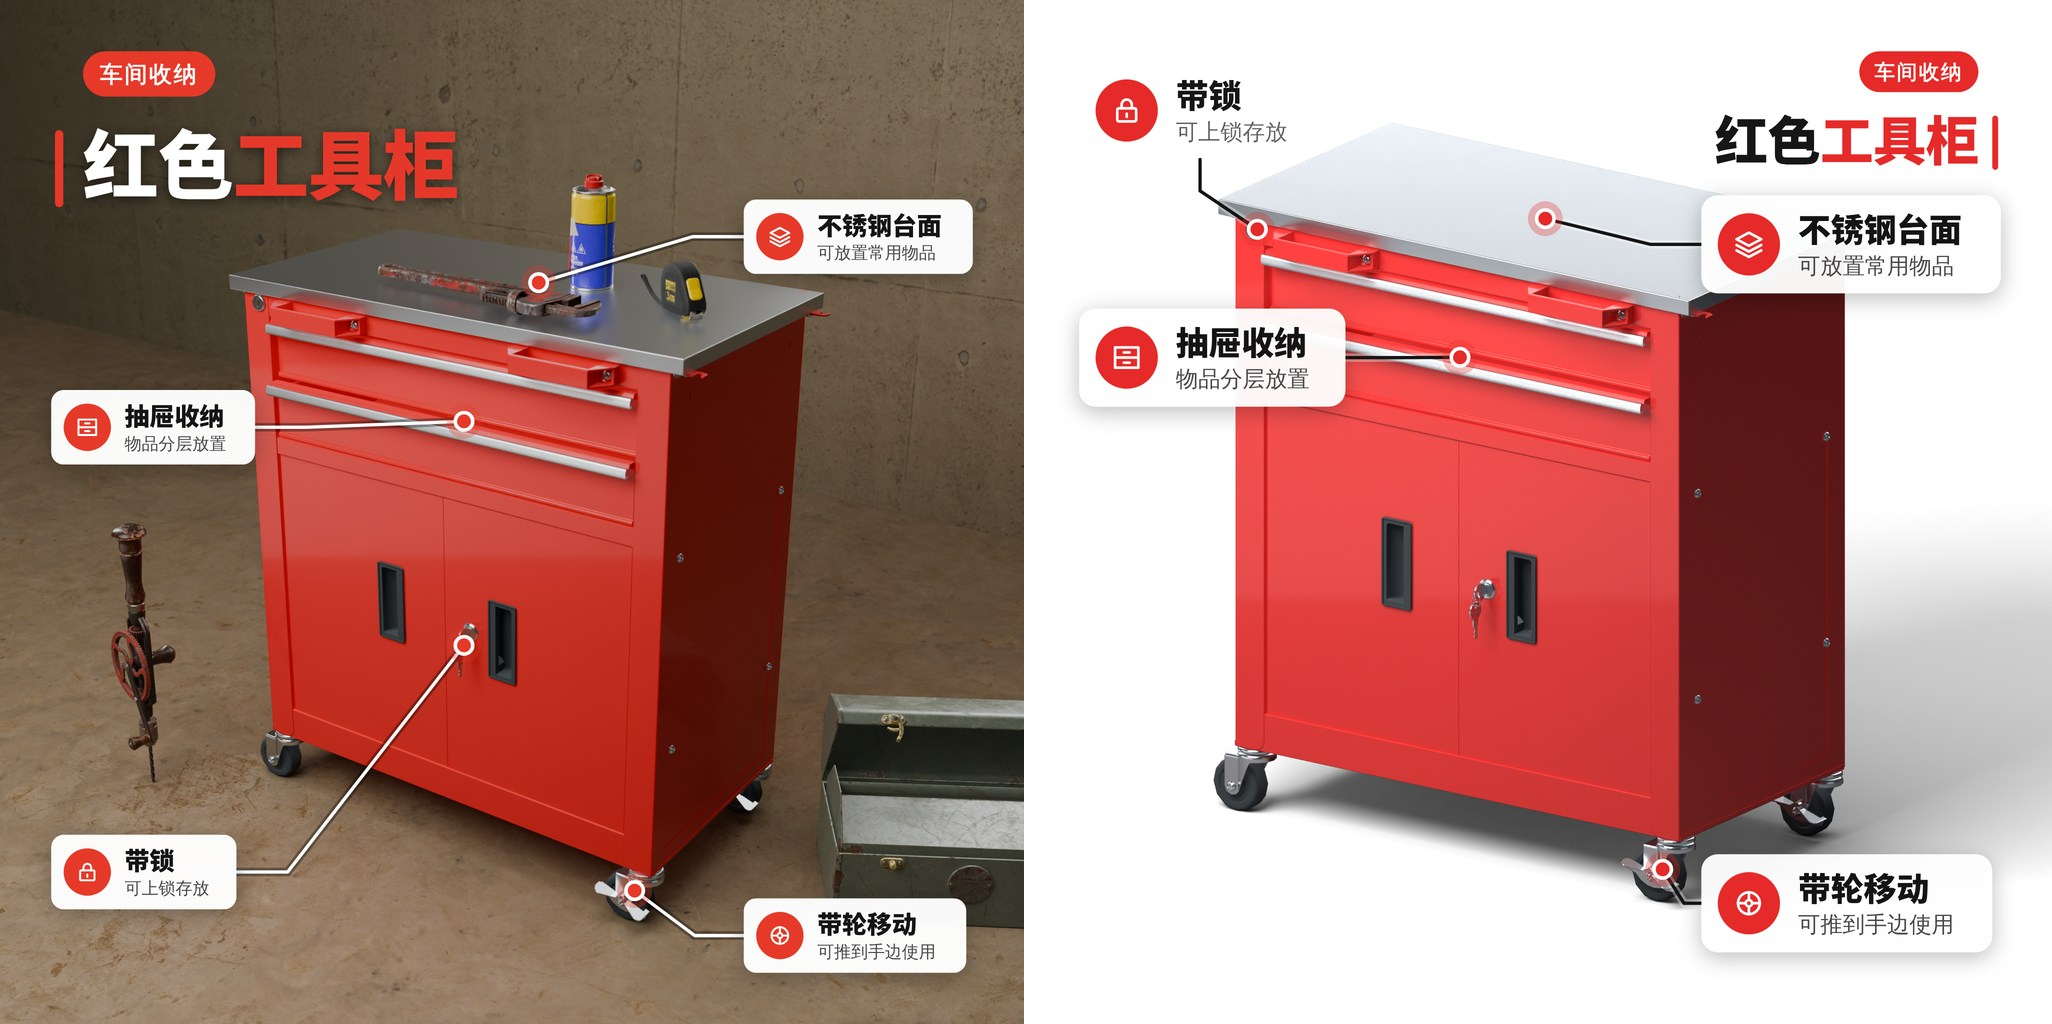
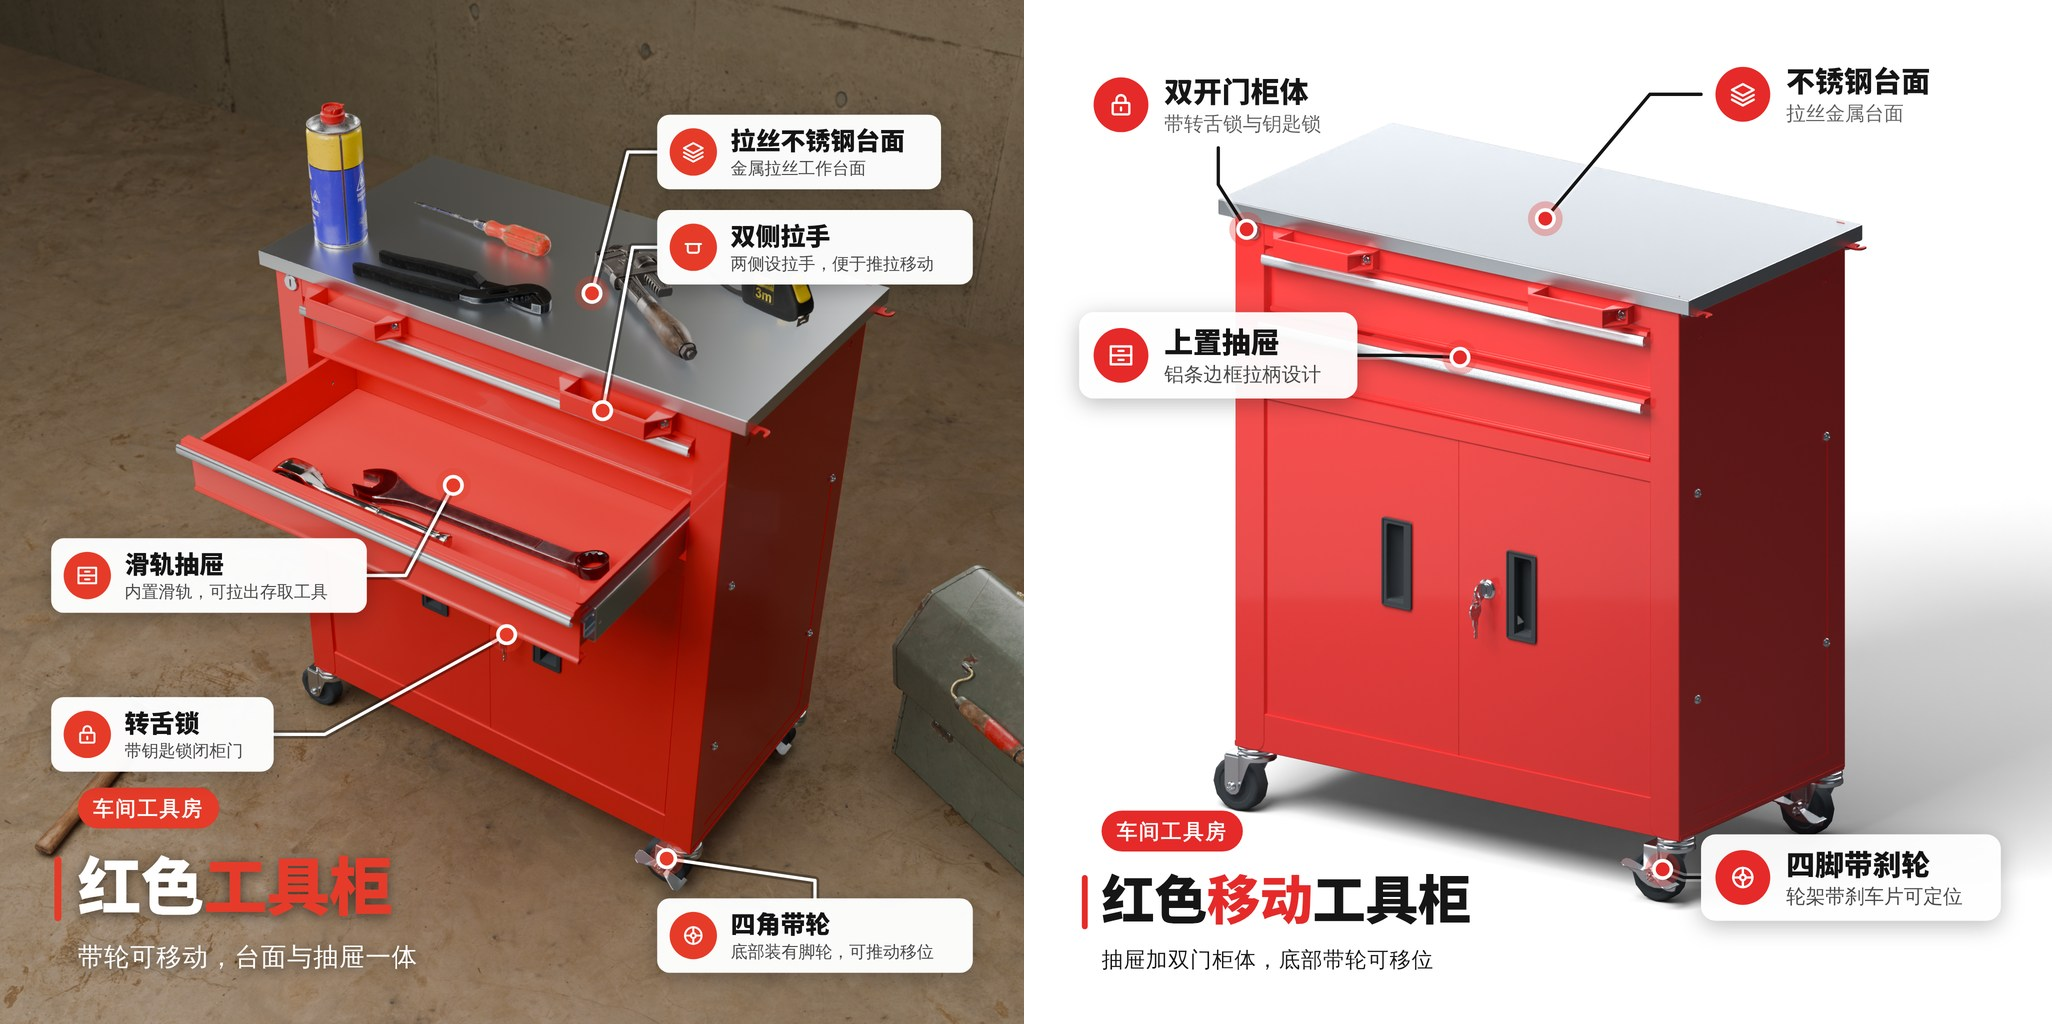
Verify the layer's key points on the real model and tighten what it may say
With the account topped up, the v24 key-point prompt ran against the HAI
service in three rounds on the cabinet's main image and scene. Requests and
replies passed validation from the first call: a category tag, a headline
with an emphasised word, and four to five points that all point at visible
parts, in about 12 seconds per image.

Reading the real replies led to these changes:

- Smoothness, ease and roominess join the banned praise; the first round
  still wrote "顺滑", "顺畅" and "宽敞".
- The tag may not repeat the headline's words.
- The model is given what each icon stands for, after it picked a ruler for a
  worktop.
- The headline block now leaves out its supporting line before it may touch
  the product, and the report says so.

The layer tests no longer depend on the machine's own AI settings: with AI
enabled locally some of them had reached the real service. The documentation
image now shows the model-written layers.

Claude-Session: https://claude.ai/code/session_01LRdb81dzUKKZMGLAkvRvuB

diff --git a/info_layer.py b/info_layer.py
@@ -46,6 +46,7 @@ MAX_ITEMS = 40
 MAX_HINT = 400
 MARGIN = .05
 DARK, LIGHT = '#141414', '#ffffff'
+TOUCH = .005             # a headline block with more than this share of it on the product counts as touching it
 BASIS_KEYS = ('azimuth', 'elevation', 'focal_length', 'projection', 'ortho_scale', 'camera_distance', 'target_offset')
 
 
@@ -215,16 +216,25 @@ CUES = (
     (('瓶身', '机身', '壳体', '外壳', 'body', 'shell', 'housing'), '', '', 'check'),
     (('柜体', '箱体', '框架', 'frame', 'cabinet'), '', '', 'box'),
 )
+# What each icon stands for, so a model picks by meaning and not by the look of a name.
+ICON_MEANINGS = {
+    'check': 'a general point', 'star': 'a highlight', 'shield': 'protection, cover', 'lock': 'lock, key', 'drawer': 'drawer, storage', 'wheel': 'wheel, caster',
+    'layers': 'surface, material, worktop, layers', 'ruler': 'size, dimensions', 'drop': 'liquid, pump', 'leaf': 'natural, plant', 'bolt': 'electric power',
+    'sparkle': 'finish, shine', 'heart': 'care', 'handle': 'handle, grip', 'door': 'door', 'box': 'body, case, packaging', 'truck': 'delivery, transport',
+    'clock': 'time', 'weight': 'weight, load', 'tool': 'tools, repair', 'sun': 'light, outdoor', 'wave': 'water', 'flame': 'heat', 'bulb': 'lamp',
+    'screen': 'display', 'power': 'switch, button', 'bag': 'bag, carrying', 'eye': 'window, visibility', 'award': 'award', 'tag': 'label, brand',
+    'info': 'information', 'size': 'space, expansion', 'gear': 'mechanism, adjustment', 'dot': 'a small part', 'arrow': 'direction, movement', 'plus': 'an extra',
+    'home': 'home use', 'cup': 'drink, kitchen'}
 MATERIAL_WORDS = ((('不锈钢', 'stainless'), '不锈钢'), (('玻璃', 'glass'), '玻璃'), (('实木', '木', 'wood', 'oak'), '木质'),
                   (('真皮', '皮革', 'leather'), '皮革'), (('铝', 'alumin'), '铝制'), (('帆布', 'canvas'), '帆布'))
 COPY_PROMPT = '''You write the short key points that are placed on a product photo for an online shop. You are shown the photo and facts about the product.
 Return data only:
-- kicker: a tag of 2 to 6 Chinese characters (at most 14 Latin) naming the category or where the product is used, shown in a small pill above the headline; or an empty string.
+- kicker: a tag of 2 to 6 Chinese characters (at most 14 Latin) naming the category or where the product is used, shown in a small pill above the headline; it must add something and not repeat the headline's own words; or an empty string.
 - headline: the product in a few words, in the user's language (at most 12 characters for Chinese, 26 for Latin text). It is set large: keep it short and concrete.
 - emphasis: the one word or phrase inside headline to draw in the accent colour, copied exactly from headline; or an empty string.
 - subline: one short supporting line, or an empty string.
-- points: 3 to 5 key points a shopper should notice. title is at most 7 Chinese characters (14 Latin), detail at most 12 Chinese characters (26 Latin) or empty. icon is the closest of the available icons. parts lists the visible_parts names that this point is about, copied exactly, so a line can point at them; leave it empty when the point is about the whole product.
-Say only what the photo shows or the facts state: what a part is and what it is for. Do not praise it. Never give a number, size, weight, capacity, grade, certification or warranty unless it appears in the facts; never claim durability, strength, safety, quietness, comfort or quality (耐磨, 防锈, 稳固, 安全, 结实, 静音, 高品质 and the like) unless the facts state it; never compare with other products. Prefer points about parts that are clearly visible in this photo, and spread them over different parts of the product. hint, when present, is what the user wants said and takes priority; keep the user's own wording and figures for it.'''
+- points: 3 to 5 key points a shopper should notice. title is at most 7 Chinese characters (14 Latin), detail at most 12 Chinese characters (26 Latin) or empty. icon is the name from available_icons whose meaning fits the point best. parts lists the visible_parts names that this point is about, copied exactly, so a line can point at them; leave it empty when the point is about the whole product.
+Say only what the photo shows or the facts state: what a part is and what it is for. Do not praise it. Never give a number, size, weight, capacity, grade, certification or warranty unless it appears in the facts; never claim durability, strength, safety, quietness, smoothness, ease, roominess, comfort or quality (耐磨, 防锈, 稳固, 安全, 结实, 静音, 顺滑, 顺畅, 轻松, 宽敞, 高品质 and the like) unless the facts state it; never compare with other products. Prefer points about parts that are clearly visible in this photo, and spread them over different parts of the product. hint, when present, is what the user wants said and takes priority; keep the user's own wording and figures for it.'''
 
 
 def copy_schema():
@@ -337,7 +347,7 @@ def copy_for(project, hint='', image_path=None, visible=None):
     shown = list(visible if visible is not None else _names(project))[:80]
     facts = {'product_name': str(project.get('name', ''))[:200], 'product_category': str(metadata.get('product_category', ''))[:200],
              'material_note': str(metadata.get('material_note', ''))[:500], 'real_dimensions_mm': project['plan'].get('dimensions_mm'),
-             'visible_parts': shown, 'available_icons': list(ICONS),
+             'visible_parts': shown, 'available_icons': dict(ICON_MEANINGS),
              'surface_finishes': [{'part': str(row.get('object') or row.get('material', ''))[:80], 'finish': str(row.get('label', ''))[:40]}
                                   for row in lookdev[:30] if isinstance(row, dict)]}
     if hint:
@@ -603,11 +613,13 @@ def arrange(copy_data, picture, aspect='1:1', look=None):
     product = picture.rect or (.3, .3, .7, .7)
 
     # --- tag, headline and subline: one block, set large, in the freest corner or band
-    best = None
     kicker = copy_data.get('kicker') or ''; headline = copy_data.get('headline') or ''; subline = copy_data.get('subline') or ''
-    if headline:
-        places = (('left', 'top', 0), ('right', 'top', .03), ('center', 'top', .05), ('left', 'bottom', .09), ('right', 'bottom', .11),
-                  ('center', 'bottom', .13))
+    places = (('left', 'top', 0), ('right', 'top', .03), ('center', 'top', .05), ('left', 'bottom', .09), ('right', 'bottom', .11),
+              ('center', 'bottom', .13))
+
+    def block(subline):
+        """The best place and size for the block with this subline: (score, share on the product, ...measures)."""
+        found = None
         for step, size in enumerate((.1, .086, .074, .062, .052)):
             for limit in (.6, .46, .36):
                 lines = wrap(headline, size, limit / sx)
@@ -629,12 +641,21 @@ def arrange(copy_data, picture, aspect='1:1', look=None):
                     rect = (x0, y0, x0 + block_w, y0 + block_h)
                     on_product, on_scenery = picture.cover(rect)
                     # Large type is wanted, but not across the product: a headline that touches it at all pays for that first.
-                    score = (-(7 * on_product + 2.5 * on_scenery) - (.3 if on_product > .02 else 0) - picture.tone(rect)[1] * .8 - bias - step * .055
+                    score = (-(7 * on_product + 2.5 * on_scenery) - (.3 if on_product > TOUCH else 0) - picture.tone(rect)[1] * .8 - bias - step * .055
                              - (len(lines) - 1) * .02)
-                    if best is None or score > best[0]:
-                        best = (score, rect, align, size, sub_size, kick_size, lines, sub_lines, kick_h + kick_gap, head_h, gap)
+                    if found is None or score > found[0]:
+                        found = (score, on_product, rect, align, size, sub_size, kick_size, lines, sub_lines, kick_h + kick_gap, head_h, gap)
+        return found
+
+    best = block(subline) if headline else None
+    unplaced = []
+    if best and subline and best[1] > TOUCH:
+        # The supporting line is the first thing to go when the block would otherwise lie on the product.
+        shorter = block('')
+        if shorter and shorter[1] <= TOUCH:
+            best = shorter; unplaced.append(subline)
     if best:
-        _, rect, align, size, sub_size, kick_size, lines, sub_lines, head_y, head_h, gap = best
+        _, _, rect, align, size, sub_size, kick_size, lines, sub_lines, head_y, head_h, gap = best
         color, backing = _tone(picture, rect)
         plate = ({'color': '#ffffff', 'opacity': .92} if color == DARK else {'color': '#111111', 'opacity': .6}) if backing and picture.cover(rect)[0] > .25 else None
         common = {'type': 'text', 'x': rect[0], 'w': rect[2] - rect[0], 'align': align, 'color': color}
@@ -763,7 +784,7 @@ def arrange(copy_data, picture, aspect='1:1', look=None):
         items.append({'id': label['id'], 'type': 'callout', 'x': rect[0], 'y': rect[1], 'w': rect[2] - rect[0], 'title': point['title'],
                       'detail': point.get('detail') or '', 'icon': point.get('icon'), 'anchor': label['anchor'] if label['id'] in pointing else None,
                       'size': label['size'], 'color': color, 'plate': plate})
-    dropped = [label['point']['title'] for label in labels if label['id'] not in {item['id'] for item in items}]
+    dropped = unplaced + [label['point']['title'] for label in labels if label['id'] not in {item['id'] for item in items}]
     crowded = any(picture.cover(rect)[0] > .12 for rect in taken) or any(picture.cover(rect)[0] > .12 for _, rect in placed)
     return items, dropped, crowded, look
 

diff --git a/tests/test_info_layer.py b/tests/test_info_layer.py
@@ -20,6 +20,18 @@ import planner
 import studio_store as store
 
 ROOT = Path(__file__).resolve().parents[1]
+_no_model = None
+
+
+def setUpModule():
+    """No test here reaches a model service, whatever this machine's own AI settings are. Tests about the model script its replies."""
+    global _no_model
+    _no_model = patch.object(info_layer, '_config', return_value=None); _no_model.start()
+
+
+def tearDownModule():
+    _no_model.stop()
+
 NAMES = ['G-07C抽屉(2)_8', 'G-不锈钢台面_2', '脚轮_1', '脚轮_2', '锁芯', '钥匙', '柜体']
 
 
@@ -157,6 +169,8 @@ class KeyPointTests(unittest.TestCase):
         self.assertEqual(content['points'], [{'title': '全拉出抽屉', 'detail': '', 'icon': 'drawer', 'parts': ['G-07C抽屉(2)_8']}])
         facts = ask.call_args.args[2]
         self.assertEqual((facts['hint'], facts['visible_parts']), ('突出抽屉', ['G-07C抽屉(2)_8']))
+        self.assertEqual(set(facts['available_icons']), set(info_layer.ICONS))     # every icon is offered with what it stands for
+        self.assertIn('worktop', facts['available_icons']['layers'])
         self.assertIn('Never give a number', ask.call_args.args[1]); self.assertIn('Do not praise', ask.call_args.args[1])
         with patch.object(info_layer, '_config', return_value={'enabled': True}), patch.object(info_layer, '_ask', return_value={**answer, 'emphasis': '不在标题里'}):
             self.assertEqual(info_layer.copy_for(project())[0]['emphasis'], '')       # only a word that is really in the headline can be set in colour
@@ -262,6 +276,17 @@ class LayoutTests(unittest.TestCase):
         self.assertLess(kicker['y'], headline['y']); self.assertEqual(kicker['align'], headline['align'])
         self.assertLess(kicker['size'], headline['size'] * .5)
         self.assertNotIn('mark', info_layer.arrange({**content, 'emphasis': '别的词'}, red)[0][1])
+
+    def test_the_supporting_line_is_left_out_before_the_headline_block_may_touch_the_product(self):
+        content = {'kicker': '车间收纳', 'headline': '红色工具柜', 'emphasis': '', 'subline': '抽屉与柜门组合，工具分类存放', 'points': []}
+        roomy, dropped, _, _ = info_layer.arrange(content, picture(product=(.3, .4, .7, .95)))
+        self.assertEqual(([entry['id'] for entry in roomy], dropped), (['kicker', 'headline', 'subline'], []))
+        # a band above the product that holds the tag and the headline, but not a third line
+        view = picture(product=(0, .19, 1, 1))
+        tight, dropped, crowded, _ = info_layer.arrange(content, view)
+        self.assertEqual(([entry['id'] for entry in tight], dropped), (['kicker', 'headline'], ['抽屉与柜门组合，工具分类存放']))
+        self.assertFalse(crowded)
+        for entry in tight: self.assertEqual(view.cover(box(entry))[0], 0)
 
     def test_a_line_points_at_the_largest_visible_patch_of_its_parts(self):
         view = picture(parts={'wheel_a': (.31, .8, .35, .84), 'wheel_b': (.55, .74, .69, .84)})

diff --git a/API.md b/API.md
@@ -18,7 +18,7 @@
 
 `/suggest` 按画面决定这两个字段：产品与道具之外的区域平均亮度不低于 0.75 且起伏不大时 `theme` 为 `bold`，否则为 `card`；`accent` 取产品上占比足够的鲜艳色相（饱和度与明度调到醒目），产品没有明显色彩时为 `#e8452c`（浅背景）或 `#ffc53d`（深背景）。元素的 `color` 是直接画在照片上的东西（指向线、无卡片的文字）所用的颜色，仍按其下方画面的明暗取深或浅；卡片上的文字颜色由卡片底色决定。
 
-AI 写要点时的返回结构新增 `kicker` 与 `emphasis` 两个字符串；`emphasis` 只有确实是 `headline` 的一部分时才会成为 `mark`。规则模式的 `kicker` 来自品类（如 `车间收纳`），`mark` 取标题中表示品类的词。
+AI 写要点时的返回结构新增 `kicker` 与 `emphasis` 两个字符串；`emphasis` 只有确实是 `headline` 的一部分时才会成为 `mark`。发给模型的 `available_icons` 是“图标名 → 含义”的对照表。标题块带着副标题会碰到产品时，副标题被省略，并出现在 `report.notes` 的“画面放不下”里。规则模式的 `kicker` 来自品类（如 `车间收纳`），`mark` 取标题中表示品类的词。
 
 **错误提示。** AI 服务返回 `402` 时，各 AI 接口的错误信息为“AI 服务的额度已用尽或账户欠费，请充值或联系管理员后重试。（HTTP 402）”；`/suggest` 不报错，改用名称规则，并把这句原因放进 `report.notes`。
 

diff --git a/README.md b/README.md
@@ -14,7 +14,7 @@
 
 （前五格依次为简洁、醒目、卡片、深色、色块；最后一格是白底主图。）
 
-**AI 路径已在 HAI 接口上实测。** 图文要点（12 秒，5 条要点全部正确指向部件）和使用场景的导演与采购（18 秒，放入 5 件道具）各完成了一次真实调用，请求与校验一次通过。随后账户额度用尽（HTTP 402），所以 v24 新增的品类标签、强调词与更严格的措辞要求只用脚本回复测试过；上面两张图的文案来自名称规则。细节、字体许可与验证范围见 [TEXT_LAYER_STYLE_UPDATE.md](TEXT_LAYER_STYLE_UPDATE.md)。
+**AI 路径已在 HAI 接口上实测。** 使用场景的导演与采购（18 秒，放入 5 件道具）和图文要点（每次约 12 秒）都完成了真实调用，请求与返回校验一次通过；图文要点先后跑了三轮，并按真实回复收紧了措辞要求、给图标补了含义。上面两张图的文案就是模型看图写的：品类标签、带强调词的标题，以及全部正确指向部件的 4–5 条要点。文案仍是草稿，发布前请核对。细节、字体许可与验证范围见 [TEXT_LAYER_STYLE_UPDATE.md](TEXT_LAYER_STYLE_UPDATE.md)。
 
 ## 图文图层 v23
 
